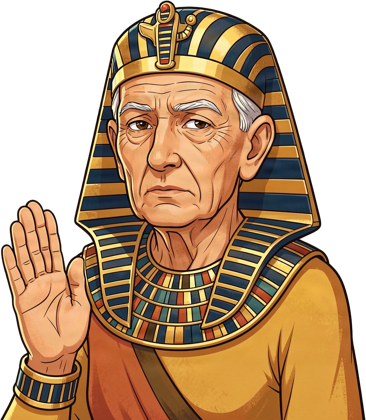
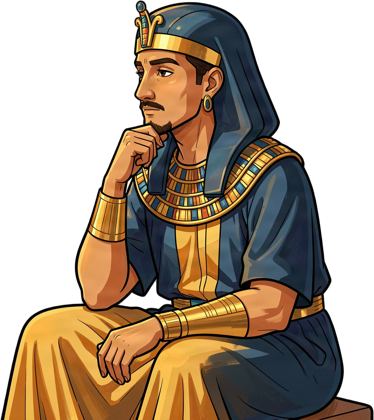
Story slide: seated, unconvinced Thamus

diff --git a/docs/slides-where-ai-fits.html b/docs/slides-where-ai-fits.html
@@ -670,7 +670,7 @@
               <p class="slide-quote" style="margin-top:0.3rem; font-size:1.05rem;">This will make the Egyptians wiser and give them better memories; it is a specific both for the memory and for the wit.</p>
             </article>
             <article class="slide-card dark">
-              <img src="img/story/thamus.png" alt="King Thamus, an old pharaoh, raising his palm to refuse" style="display:block; height:8.5rem; margin:0 auto 0.3rem;" />
+              <img src="img/story/thamus.png" alt="King Thamus, seated, chin in hand, unconvinced" style="display:block; height:8.5rem; margin:0 auto 0.3rem;" />
               <span class="slide-label">Thamus, the king</span>
               <p class="slide-quote" style="margin-top:0.3rem; font-size:1.05rem;">They will trust to the external written characters and not remember of themselves. You have discovered an aid not to memory, but to reminiscence. They will be hearers of many things and will have learned nothing.</p>
             </article>
